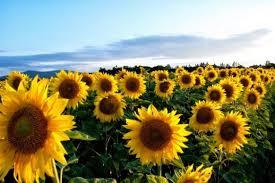
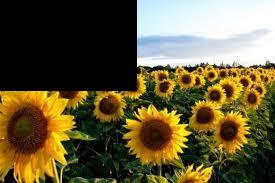
list getpixel

Changed region(s): [[0.0, 0.0, 0.5236, 0.5191]]

diff --git a/main.py b/main.py
@@ -119,12 +119,18 @@ while True:
                 filename = img.filename
                 px = img.load()
                 lastcolor = -1
-                for x in range(225):
-                    for y in range(225):
+                domain = int(input("What is the x size value? > "))
+                ranges = int(input("What is the y size value? > "))
+                for x in range(domain // 2):
+                    for y in range(ranges // 2):
                         if px[x, y] != lastcolor:
                             lastcolor = px[x, y]
-                            print (px[x, y])
-                    
+                            print(px[4, 4])
+                            cord = x, y
+                            print(img.getpixel(cord))
+                        px[x,y] = (0,0,0)
+                print(px)
+                img.filename = filename
     except Exception as e:
         print(e)
             
